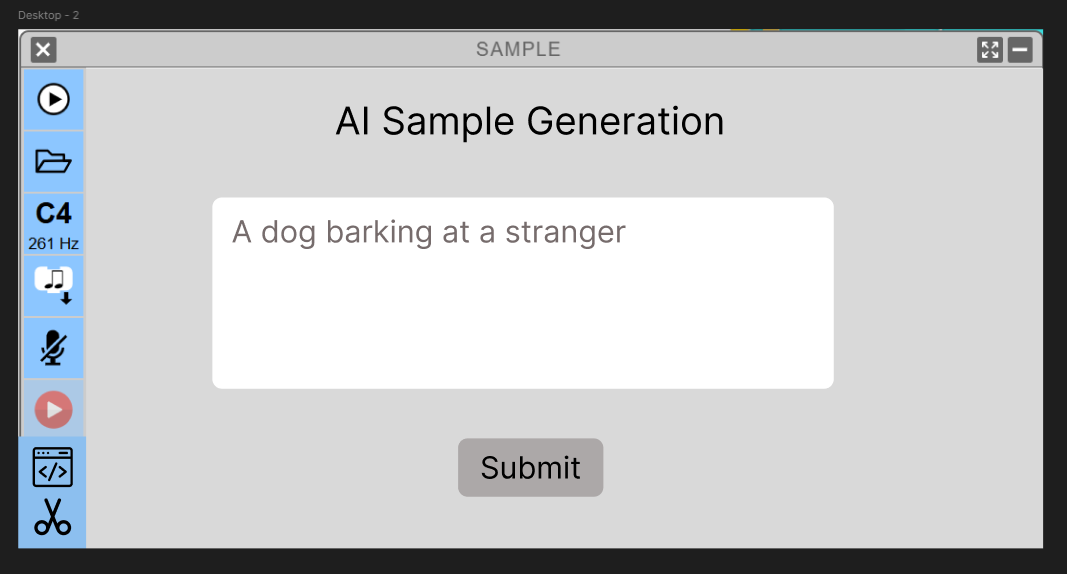
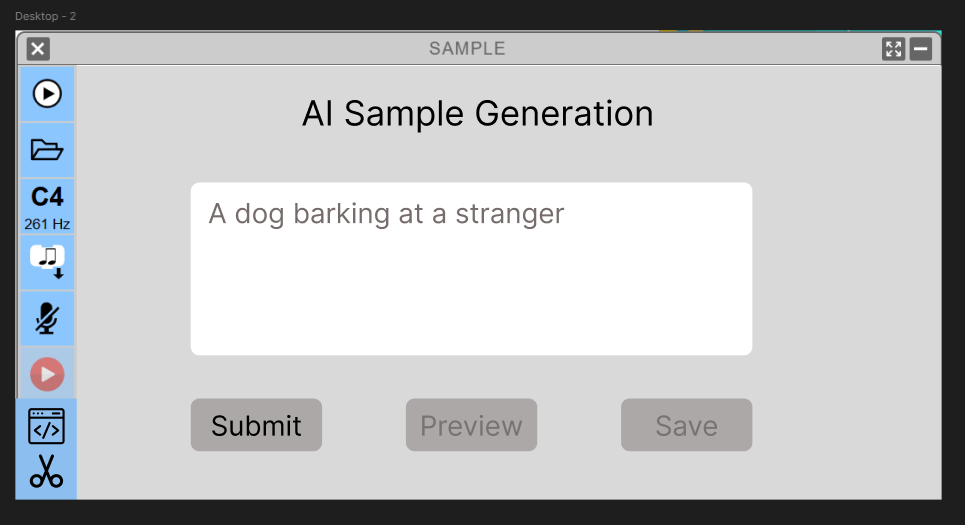
update sketches of user interface

diff --git a/src/constants/MarkdownFiles/posts/2025-07-20-ssoc-2025-MuhammadHaroon-week07.md b/src/constants/MarkdownFiles/posts/2025-07-20-ssoc-2025-MuhammadHaroon-week07.md
@@ -35,7 +35,7 @@ image: "assets/Images/GSOC.png"
 
    ![User Inerface 1](/assets/Developers/Muhammad%20Haroon/user%20interface%201.png)
 
-   - Upon clicking the prompt button (which has an icon similar to a code editor), the AI sample generation tool will open. It includes an input box where users can enter a prompt and press the Submit button. The audio will then be downloaded automatically.
+   - Upon clicking the Prompt button (which has an icon resembling a code editor), the AI sample generation tool will open. It includes an input box where users can enter a prompt and press the Submit button. Users can preview the generated audio by pressing the Preview button. If the audio doesn't sound good, they can modify the prompt and preview the audio again before saving it by pressing the Save button.
 
    ![User Inerface 2](/assets/Developers/Muhammad%20Haroon/user%20interface%202.png)
 
